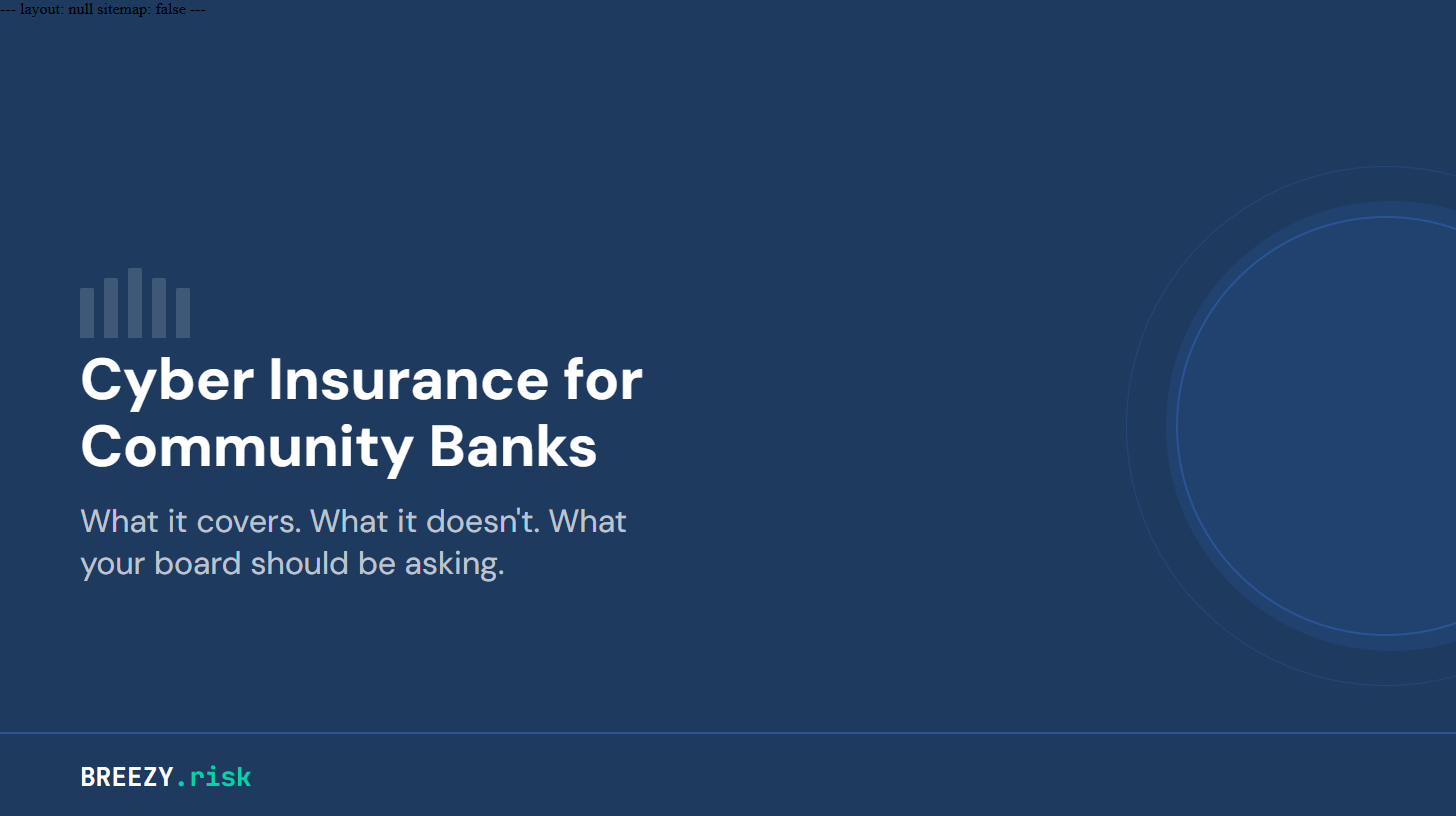
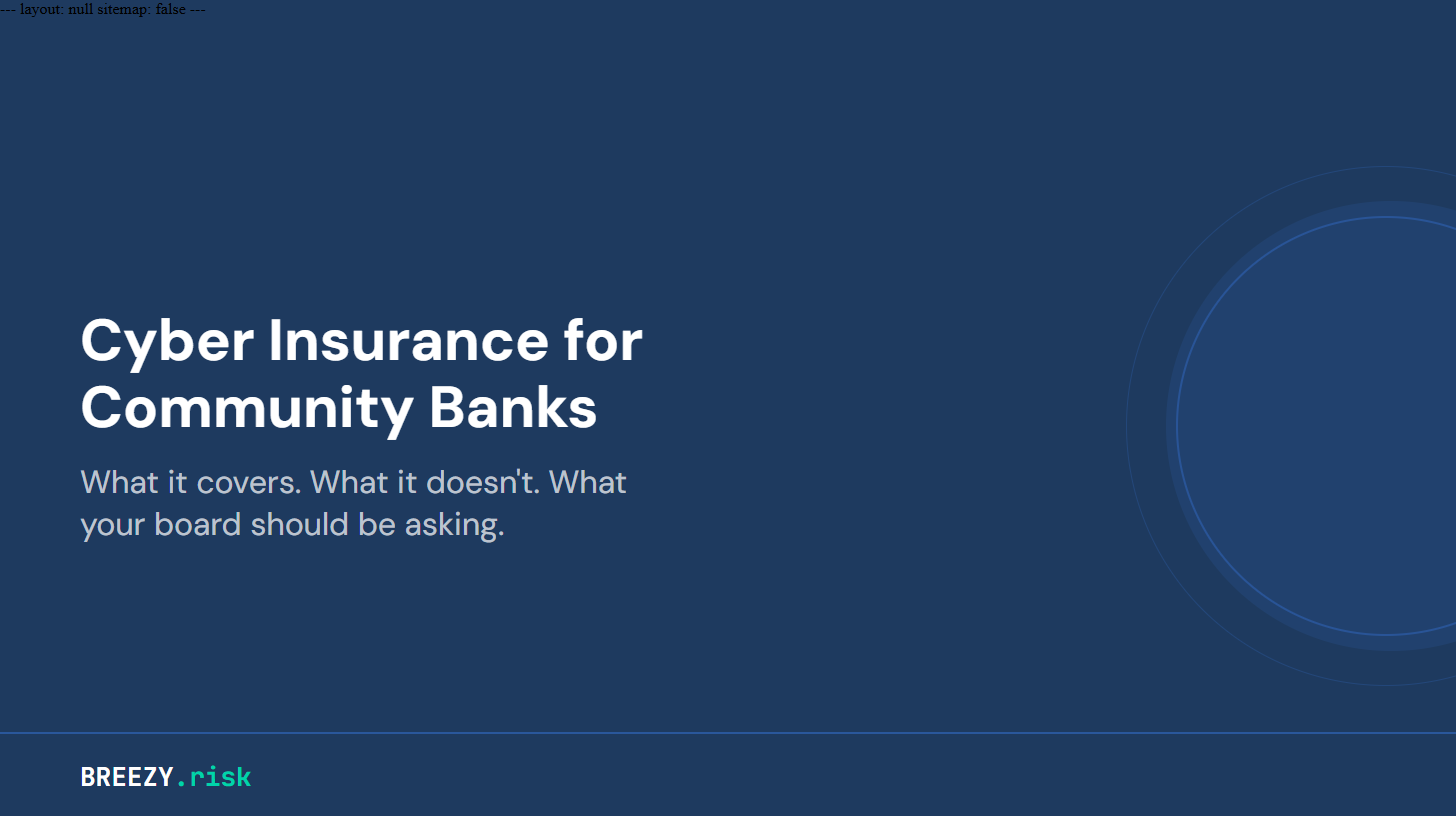
Refine blog image graphics: larger circles, bolder scales, wider sound wave, bigger magnifying glass, remove columns

Changed region(s): [[0.0309, 0.337, 0.4636, 0.7047]]

diff --git a/assets/images/blog-header-wire-fraud-bank.html b/assets/images/blog-header-wire-fraud-bank.html
@@ -139,6 +139,8 @@ sitemap: false
 
     <div class="content">
         <div style="display: flex; align-items: flex-end; gap: 6px; height: 60px; margin-bottom: 8px; opacity: 0.2;">
+            <div style="width: 8px; height: 15px; background: #fff; border-radius: 2px;"></div>
+            <div style="width: 8px; height: 30px; background: #fff; border-radius: 2px;"></div>
             <div style="width: 8px; height: 20px; background: #fff; border-radius: 2px;"></div>
             <div style="width: 8px; height: 40px; background: #fff; border-radius: 2px;"></div>
             <div style="width: 8px; height: 55px; background: #fff; border-radius: 2px;"></div>
@@ -146,6 +148,11 @@ sitemap: false
             <div style="width: 8px; height: 50px; background: #fff; border-radius: 2px;"></div>
             <div style="width: 8px; height: 25px; background: #fff; border-radius: 2px;"></div>
             <div style="width: 8px; height: 45px; background: #fff; border-radius: 2px;"></div>
+            <div style="width: 8px; height: 20px; background: #fff; border-radius: 2px;"></div>
+            <div style="width: 8px; height: 35px; background: #fff; border-radius: 2px;"></div>
+            <div style="width: 8px; height: 50px; background: #fff; border-radius: 2px;"></div>
+            <div style="width: 8px; height: 30px; background: #fff; border-radius: 2px;"></div>
+            <div style="width: 8px; height: 15px; background: #fff; border-radius: 2px;"></div>
         </div>
         <div class="title">When AI Clones Your CFO's Voice</div>
         <div class="subtitle">Your callback verification just became the attack vector.</div>

diff --git a/assets/images/blog-header-policy-interaction-map.html b/assets/images/blog-header-policy-interaction-map.html
@@ -138,10 +138,10 @@ sitemap: false
     <div class="accent-line"></div>
 
     <div class="content">
-        <div style="position: relative; height: 80px; width: 160px; margin-bottom: -10px;">
-            <div style="position: absolute; left: 0; top: 0; width: 70px; height: 70px; border-radius: 50%; border: 2.5px solid rgba(255,255,255,0.25); background: transparent;"></div>
-            <div style="position: absolute; left: 40px; top: 0; width: 70px; height: 70px; border-radius: 50%; border: 2.5px solid rgba(255,255,255,0.25); background: transparent;"></div>
-            <div style="position: absolute; left: 20px; top: 30px; width: 70px; height: 70px; border-radius: 50%; border: 2.5px solid rgba(255,255,255,0.25); background: transparent;"></div>
+        <div style="position: relative; height: 110px; width: 200px; margin-bottom: 12px;">
+            <div style="position: absolute; left: 0; top: 0; width: 90px; height: 90px; border-radius: 50%; border: 3px solid rgba(255,255,255,0.35); background: transparent;"></div>
+            <div style="position: absolute; left: 55px; top: 0; width: 90px; height: 90px; border-radius: 50%; border: 3px solid rgba(255,255,255,0.35); background: transparent;"></div>
+            <div style="position: absolute; left: 28px; top: 45px; width: 90px; height: 90px; border-radius: 50%; border: 3px solid rgba(255,255,255,0.35); background: transparent;"></div>
         </div>
         <div class="title">Five Common Cyber Incidents, Three Policies</div>
         <div class="subtitle">Where coverage holds and where carriers point at each other.</div>

diff --git a/assets/images/blog-header-examiner-cyber-insurance.html b/assets/images/blog-header-examiner-cyber-insurance.html
@@ -138,9 +138,9 @@ sitemap: false
     <div class="accent-line"></div>
 
     <div class="content">
-        <div style="position: relative; width: 70px; height: 70px; margin-bottom: 8px; opacity: 0.18;">
-            <div style="width: 50px; height: 50px; border: 4px solid #fff; border-radius: 50%;"></div>
-            <div style="position: absolute; bottom: 0; right: 8px; width: 4px; height: 28px; background: #fff; border-radius: 2px; transform: rotate(-45deg); transform-origin: top center;"></div>
+        <div style="position: relative; width: 100px; height: 100px; margin-bottom: 12px; opacity: 0.3;">
+            <div style="width: 70px; height: 70px; border: 5px solid #fff; border-radius: 50%;"></div>
+            <div style="position: absolute; bottom: 2px; right: 6px; width: 5px; height: 38px; background: #fff; border-radius: 2px; transform: rotate(-45deg); transform-origin: top center;"></div>
         </div>
         <div class="title">What Your Examiner Expects From Your Cyber Insurance</div>
         <div class="subtitle">Having a policy is not enough. Here is what they want to see.</div>

diff --git a/assets/images/blog-header-cyber-insurance-banks.html b/assets/images/blog-header-cyber-insurance-banks.html
@@ -138,13 +138,6 @@ sitemap: false
     <div class="accent-line"></div>
 
     <div class="content">
-        <div style="display: flex; align-items: flex-end; gap: 10px; height: 70px; margin-bottom: 8px; opacity: 0.15;">
-            <div style="width: 14px; height: 50px; background: #fff; border-radius: 2px 2px 0 0;"></div>
-            <div style="width: 14px; height: 60px; background: #fff; border-radius: 2px 2px 0 0;"></div>
-            <div style="width: 14px; height: 70px; background: #fff; border-radius: 2px 2px 0 0;"></div>
-            <div style="width: 14px; height: 60px; background: #fff; border-radius: 2px 2px 0 0;"></div>
-            <div style="width: 14px; height: 50px; background: #fff; border-radius: 2px 2px 0 0;"></div>
-        </div>
         <div class="title">Cyber Insurance for<br>Community Banks</div>
         <div class="subtitle">What it covers. What it doesn't. What your board should be asking.</div>
     </div>

diff --git a/assets/images/blog-header-board-nobody-insures.html b/assets/images/blog-header-board-nobody-insures.html
@@ -138,7 +138,7 @@ sitemap: false
     <div class="accent-line"></div>
 
     <div class="content">
-        <div style="font-size: 100px; margin-bottom: -10px; opacity: 0.15;">&#x2696;</div>
+        <div style="font-size: 100px; margin-bottom: -10px; opacity: 0.3; color: #fff;">&#x2696;</div>
         <div class="title">The Board Nobody Insures</div>
         <div class="subtitle">When D&amp;O and cyber policies are designed to exclude each other.</div>
     </div>
